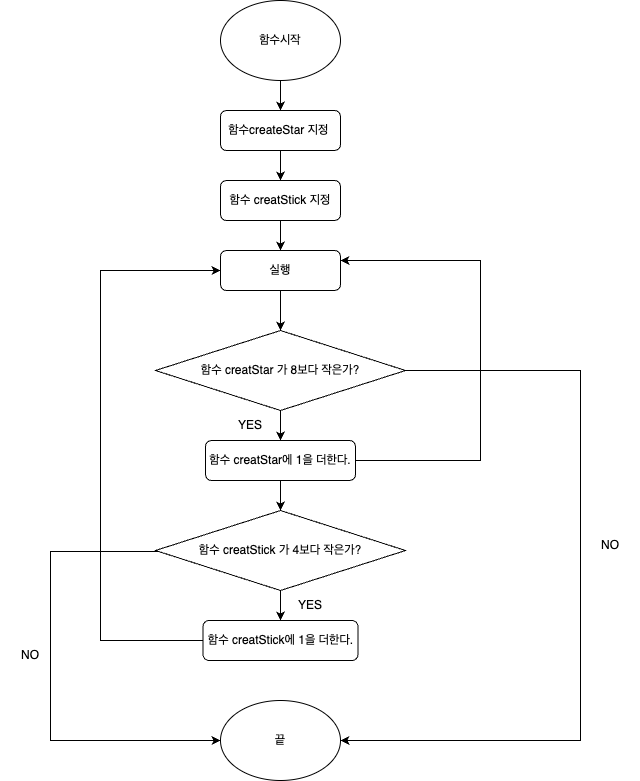
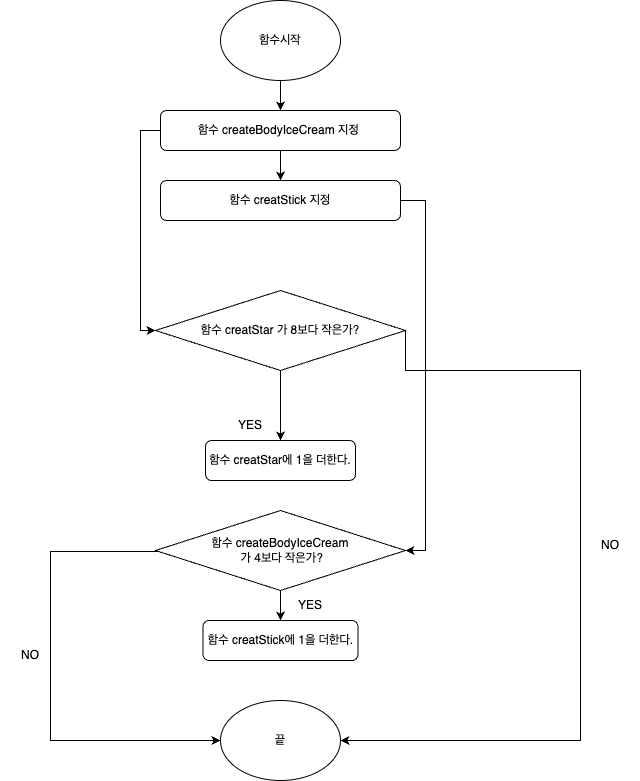
순서도 및 코드 함수 동사로 수정함

diff --git a/CodeStarterCamp_Week1/main.swift b/CodeStarterCamp_Week1/main.swift
@@ -1,23 +1,24 @@
 //
-//  main.swift
+//  ice.swift
 //  CodeStarProject
 //
-//  Created by 유지완 on 2023/08/17.
+//  Created by 유지완 on 2023/08/24.
 //
 
 import Foundation
 
-func createStar(){
+
+func createBodyIceCream(){
     for _ in 1...8{
         print("***********")
     }
 }
-
-func creatStick(){
+func createStick(){
     for _ in 1...4{
         print("    | |")
     }
 }
 
-createStar()
-creatStick()
+createBodyIceCream()
+createStick()
+
